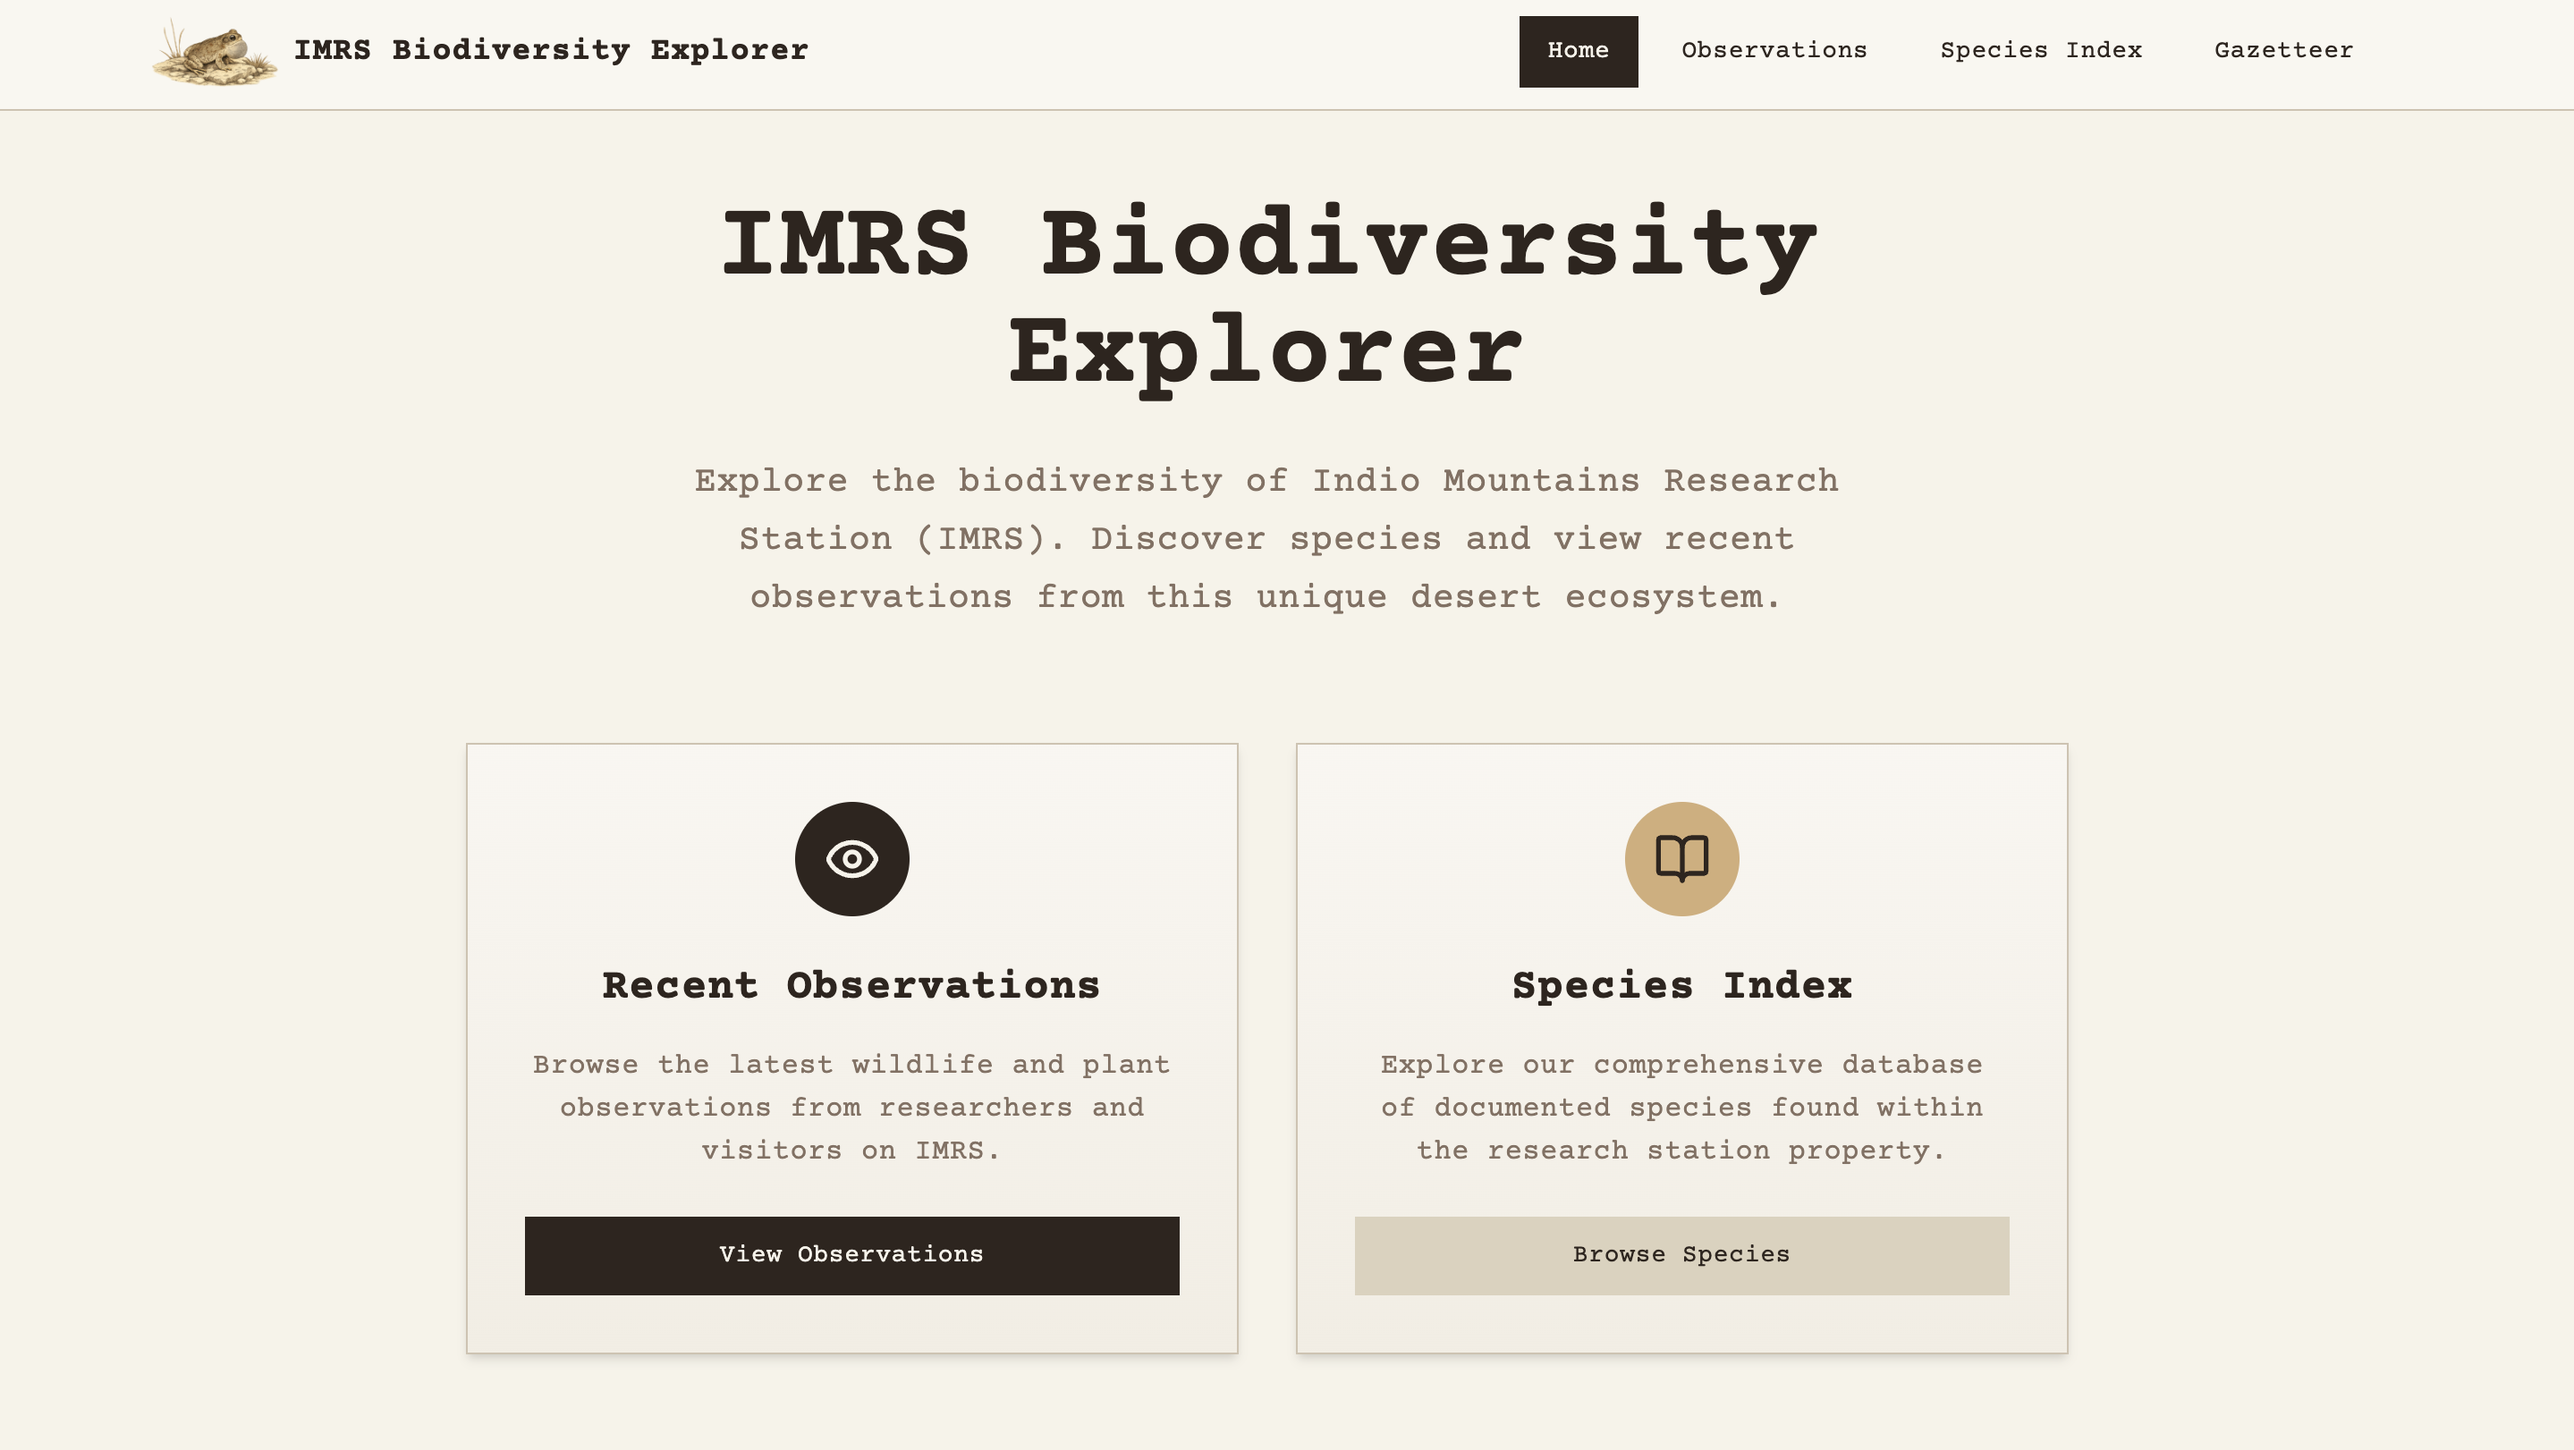
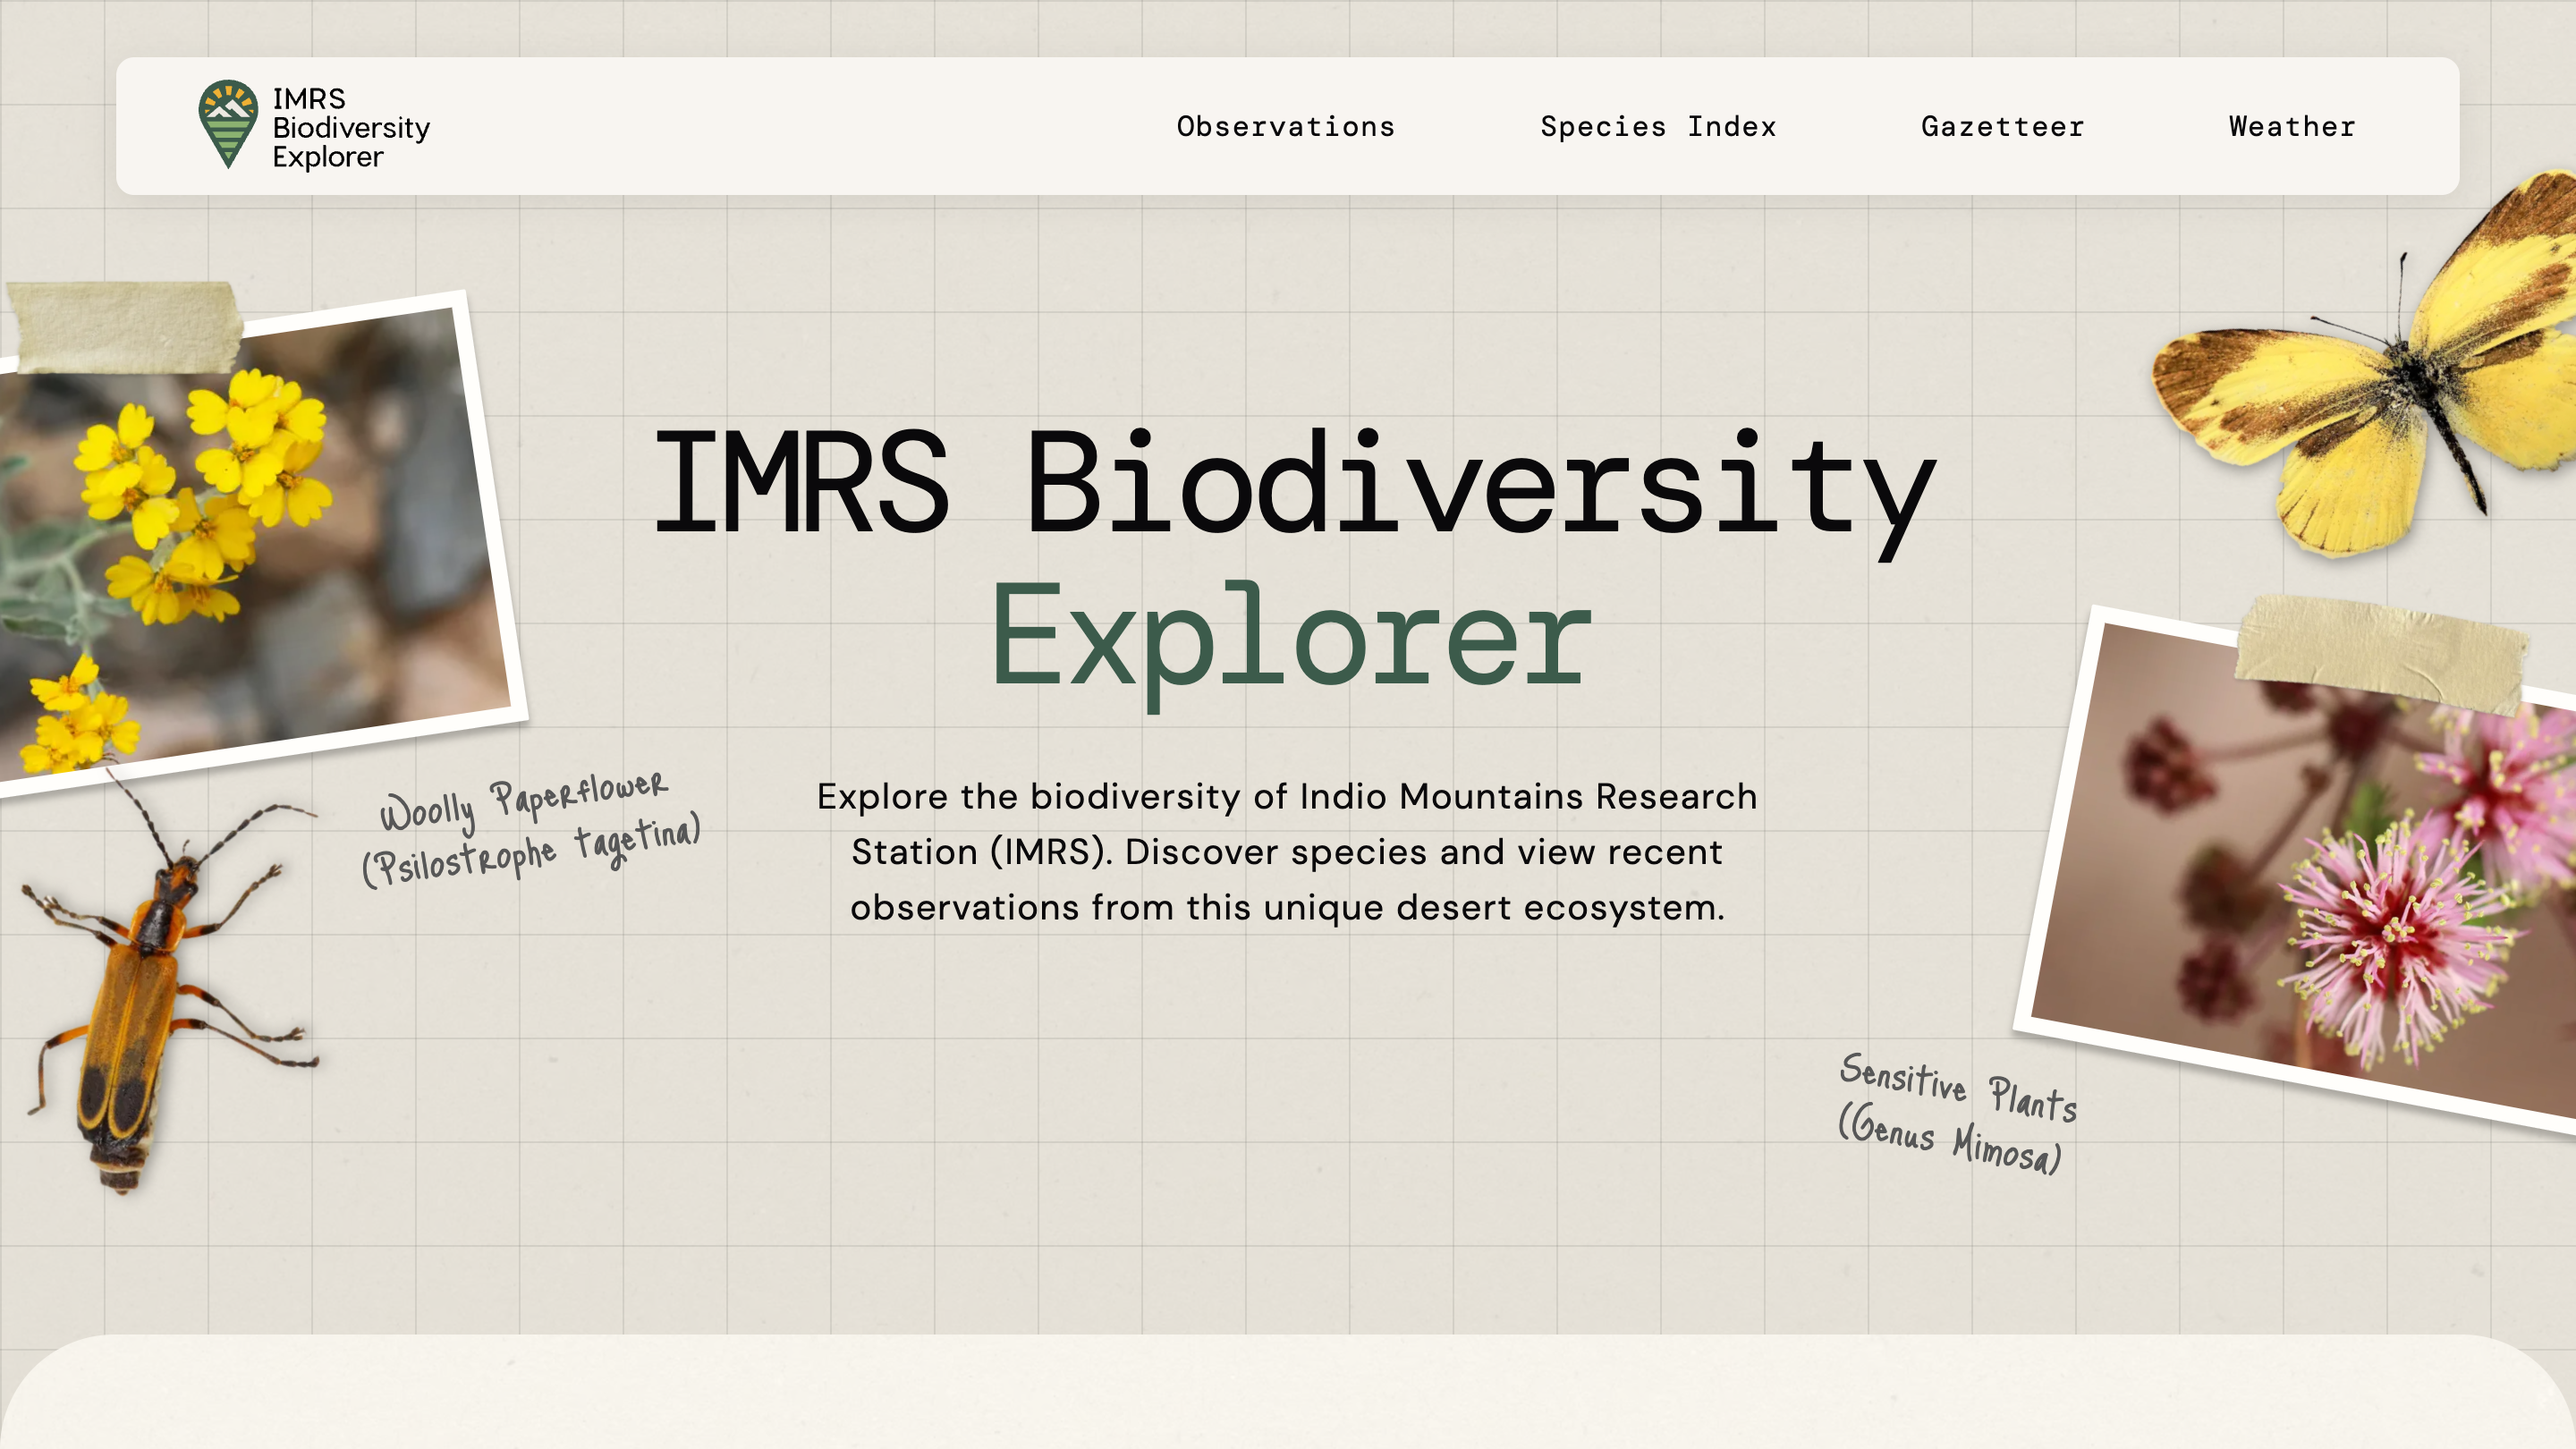
sections/featured-project: widen card to 16:9 for new imrs shot
Claude-Session: https://claude.ai/code/session_01FvZdANuSuuLtVwA2aYnH6z

diff --git a/src/components/sections/BAQLA_FeaturedProject.tsx b/src/components/sections/BAQLA_FeaturedProject.tsx
@@ -4,11 +4,11 @@ import type { Project } from '@/data/projects';
 
 export function BAQLA_FeaturedProject({ project }: { project: Project }) {
   return (
-    <Link href={`/portfolio/${project.id}`} className="group block w-full max-w-[320px] bg-baqla-card p-2.5 text-center shadow-lg">
-      <div className="relative aspect-[4/3] overflow-hidden rounded-2xl bg-baqla-paper">
-        <Image src={project.image} alt="" fill sizes="320px" className="object-cover transition group-hover:scale-[1.02]" />
+    <Link href={`/portfolio/${project.id}`} className="group block w-full max-w-[440px] bg-baqla-card p-2.5 text-center shadow-lg">
+      <div className="relative aspect-video overflow-hidden rounded-2xl bg-baqla-paper">
+        <Image src={project.image} alt="" fill sizes="440px" className="object-cover transition group-hover:scale-[1.02]" />
       </div>
-      <p className="mt-5 font-hand text-[22px] text-baqla-olive">featured project</p>
+      <p className="mt-5 font-hand text-[22px] text-baqla-olive">featured work</p>
       <h2 className="mb-5 px-2 text-[22px] font-semibold leading-tight text-baqla-ink group-hover:text-baqla-olive">{project.title}</h2>
     </Link>
   );
